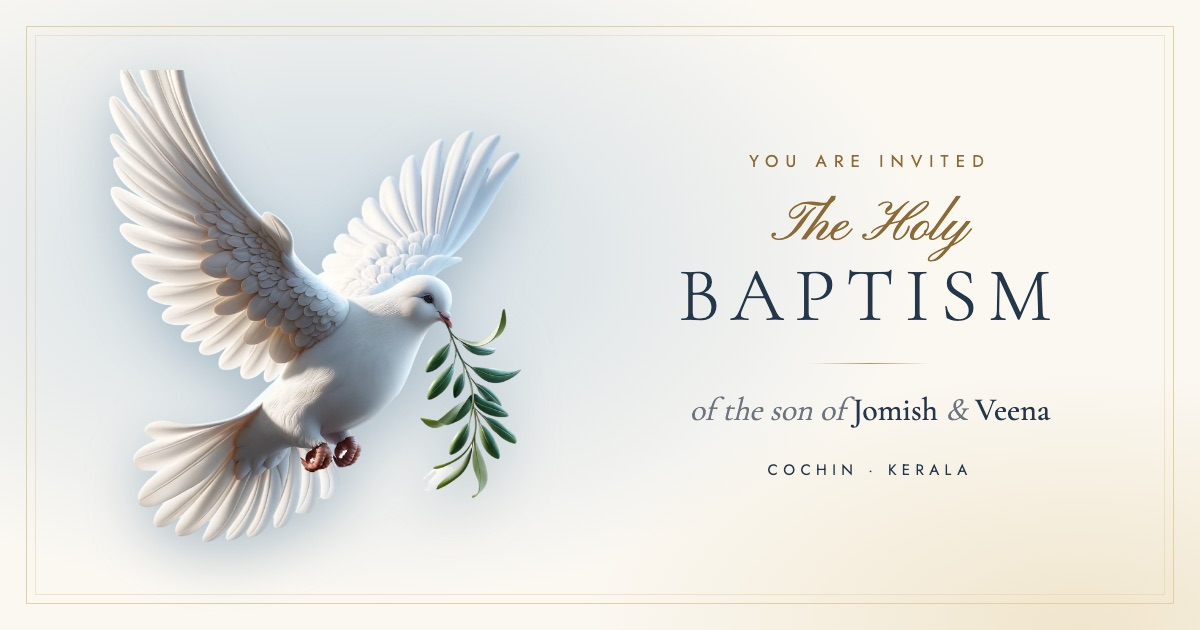
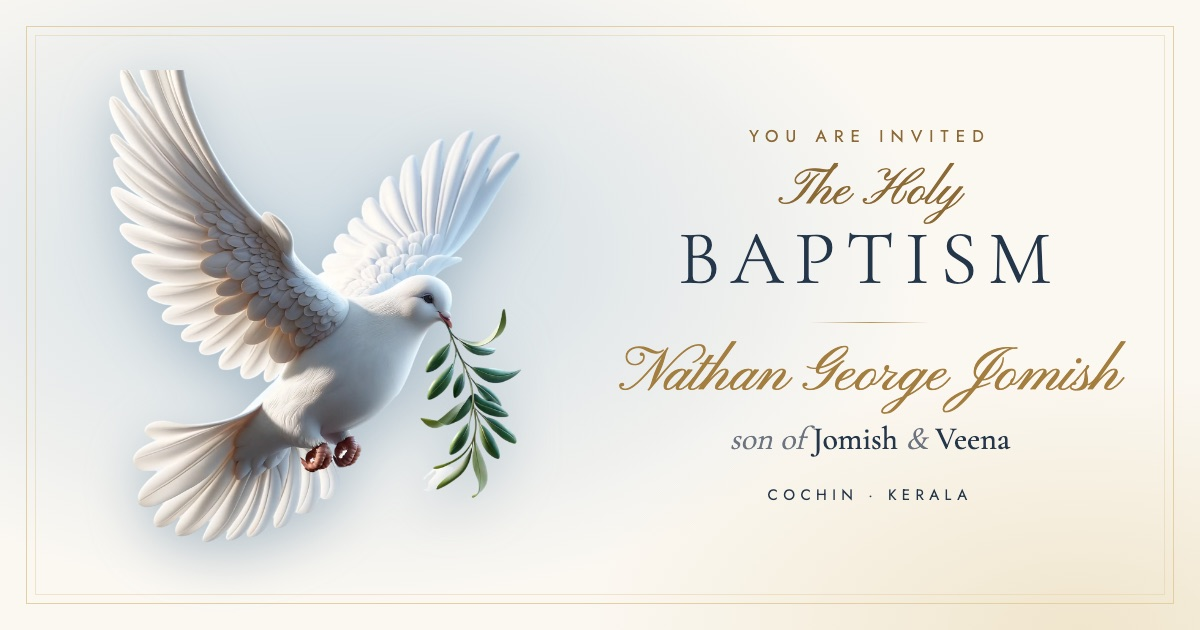
Add baby's name: Nathan George Jomish

Changed region(s): [[0.555, 0.2111, 0.8942, 0.5127], [0.5242, 0.5429, 0.9558, 0.8143], [0.6783, 0.7841, 0.7092, 0.8143]]

diff --git a/index.html b/index.html
@@ -3,11 +3,11 @@
 <head>
 <meta charset="utf-8">
 <meta name="viewport" content="width=device-width, initial-scale=1">
-<title>Baby's Baptism · Jomish & Veena</title>
+<title>Nathan's Baptism · Jomish & Veena</title>
 <meta name="description" content="You are warmly invited to the Holy Baptism of the son of Jomish & Veena, Cochin.">
 <meta property="og:type" content="website">
-<meta property="og:title" content="You are invited · The Holy Baptism of Jomish &amp; Veena's son">
-<meta property="og:description" content="Join us in Cochin, Kerala as our little one receives the sacrament of Holy Baptism.">
+<meta property="og:title" content="You are invited · Baptism of Nathan George Jomish">
+<meta property="og:description" content="Join Jomish &amp; Veena in Cochin, Kerala as little Nathan receives the sacrament of Holy Baptism.">
 <meta property="og:url" content="https://tijodevelopermode-coder.github.io/jomish-veena-baptism/">
 <meta property="og:image" content="https://tijodevelopermode-coder.github.io/jomish-veena-baptism/og-image.jpg">
 <meta property="og:image:width" content="1200">
@@ -105,7 +105,7 @@ section{position:relative;padding:110px 24px;text-align:center}
 .hero-inner .eyebrow{margin-bottom:18px}
 .hero-title{font-family:var(--serif);font-weight:300;font-size:clamp(2.6rem,8vw,4.6rem);letter-spacing:.14em;text-transform:uppercase;color:var(--navy);line-height:1.05}
 .hero-title em{display:block;font-family:var(--script);font-style:normal;text-transform:none;letter-spacing:0;font-size:.62em;color:var(--gold-deep);margin-bottom:-.05em}
-.baby-name{font-family:var(--script);font-size:clamp(3.6rem,13vw,7rem);line-height:1.1;margin:16px 0 4px;padding:0 .2em}
+.baby-name{font-family:var(--script);font-size:clamp(3rem,11vw,6rem);line-height:1.15;margin:16px 0 4px;padding:0 .2em;text-wrap:balance}
 .parents{font-family:var(--serif);font-style:italic;font-size:1.25rem;color:var(--muted)}
 .parents b{font-style:normal;font-weight:500;color:var(--navy);letter-spacing:.04em}
 .hero-date{margin-top:34px;display:inline-flex;align-items:center;gap:22px;font-family:var(--sans);text-transform:uppercase;letter-spacing:.3em;font-size:.78rem;color:var(--navy)}
@@ -235,7 +235,7 @@ footer small{display:block;margin-top:18px;font-family:var(--sans);font-size:.66
       <h1 class="hero-title reveal d2"><em>The Holy</em>Baptism</h1>
       <div class="divider reveal d2"><svg viewBox="0 0 20 20" fill="currentColor"><path d="M10 0l2.4 7.6L20 10l-7.6 2.4L10 20l-2.4-7.6L0 10l7.6-2.4z"/></svg></div>
       <p class="eyebrow reveal d3">of our beloved son</p>
-      <h2 class="baby-name gold-text reveal d3" data-f="babyName">Baby Name</h2>
+      <h2 class="baby-name gold-text reveal d3" data-f="babyName">Nathan George Jomish</h2>
       <p class="parents reveal d4">son of <b data-f="father">Jomish</b> &amp; <b data-f="mother">Veena</b></p>
       <div class="hero-date reveal d4">
         <span data-f="weekday">Sunday</span><span class="bar"></span>
@@ -345,7 +345,7 @@ footer small{display:block;margin-top:18px;font-family:var(--sans);font-size:.66
    ✏  EDIT ALL INVITATION DETAILS HERE
    ===================================================================== */
 const INVITE = {
-  babyName:      "Baby Name",
+  babyName:      "Nathan George Jomish",
   father:        "Jomish",
   mother:        "Veena",
 
